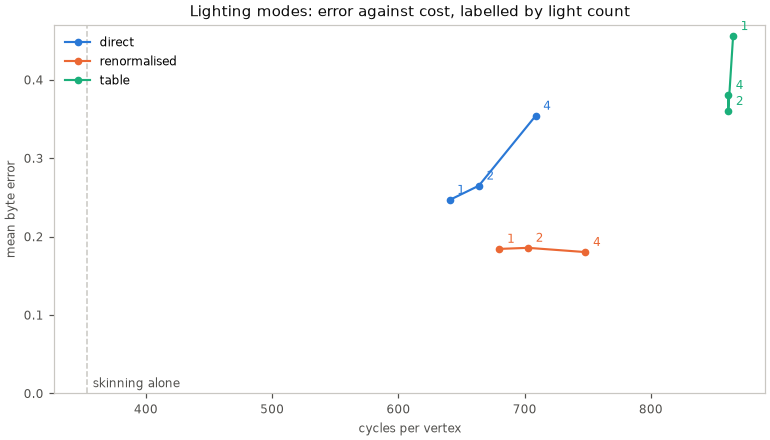
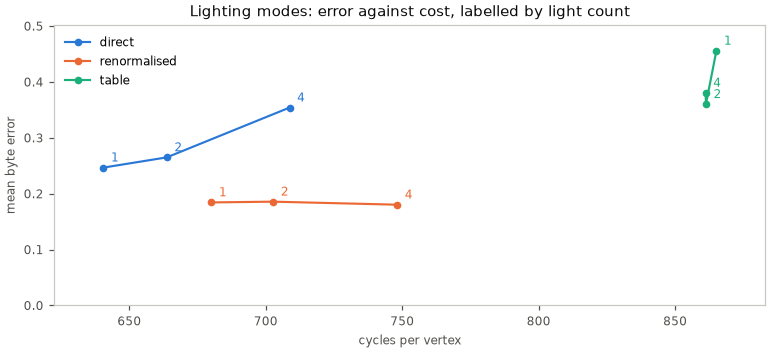
docs: tighten the skin-light board plot to its data, skinning-alone cost in the generated sentence (autana-2agzm)

diff --git a/launcher/tools/r3d/skin_light/report_skin_light_board.py b/launcher/tools/r3d/skin_light/report_skin_light_board.py
@@ -17,6 +17,8 @@ SHARED = (("Normal-palette build cycles / frame", "the normal palette costs {} c
           ("Scene PSRAM bytes", "the scene holds {} bytes of PSRAM"))
 # Point-label offsets in points from the point, tried in order until one clears the labels already placed.
 LABEL_OFFSETS = ((5, 4), (5, -10), (-12, 4), (-12, -10), (5, 12), (5, -18), (-12, 12), (-12, -18))
+PLOT_SIZE = (7.0, 3.2)  # inches
+PLOT_MARGIN = 0.08  # of the cost range, either side
 FIGURE = pathlib.Path(__file__).resolve().parents[4] / "docs/render/images/skin-light-board.png"
 
 
@@ -104,7 +106,7 @@ def mode_points(text):
 def lighting_modes(text):
     """The slim table of the modes, preceded by one sentence for each column that holds a single value in every row;
     a column whose rows differ stays in the table."""
-    points, _, shared, _ = mode_points(text)
+    points, skin, shared, _ = mode_points(text)
     constant = {name: set(values).pop() for name, values in shared.items() if len(set(values)) == 1}
     names = [name for name, _ in SHARED if name in constant]
     columns = ["Mode", "Lights", "Worst byte error", "Table build cycles / light change", "Scene internal bytes"]
@@ -125,8 +127,8 @@ def write_figure(text, output):
     """Mean byte error against cycles per vertex, one colour per mode, the light counts joined and labelled."""
     sys.path.insert(0, str(pathlib.Path(__file__).resolve().parents[2]))
     from docs.plot_style import FAINT, INK, LABEL_SIZE, MUTED, SLOTS, TITLE_SIZE, save, subplots
-    points, skin, _, _ = mode_points(text)
-    plot, axis = subplots(1, 1, (7.0, 4.0))
+    points, _, _, _ = mode_points(text)
+    plot, axis = subplots(1, 1, PLOT_SIZE)
     placed = []
     for colour, mode in zip(SLOTS, MODES):
         own = [p for p in points if p[0] == mode]
@@ -143,10 +145,8 @@ def write_figure(text, output):
                     placed.append(box)
                     break
                 label.remove()
-    if skin is not None:
-        axis.axvline(skin, color=FAINT, linestyle="--", linewidth=1)
-        axis.annotate("skinning alone", (skin, 0), xytext=(4, 4), textcoords="offset points", fontsize=LABEL_SIZE, color=MUTED)
-    axis.set_ylim(bottom=0)
+    axis.set_ylim(0, 1.1 * max(p[3] for p in points))
+    axis.margins(x=PLOT_MARGIN)
     axis.set_title("Lighting modes: error against cost, labelled by light count", fontsize=TITLE_SIZE, color=INK)
     axis.set_xlabel("cycles per vertex", fontsize=LABEL_SIZE, color=MUTED)
     axis.set_ylabel("mean byte error", fontsize=LABEL_SIZE, color=MUTED)

diff --git a/docs/render/Skinned-Lighting.md b/docs/render/Skinned-Lighting.md
@@ -93,8 +93,7 @@ The import's [`[skin].lighting`](Mesh-Import.md#skin-lighting) picks the mode.
 
 ![Mean byte error against cycles per vertex for each lighting mode, the one, two and four light points joined](images/skin-light-board.png)
 
-Skinning alone costs the dashed line's cycles per vertex; an exact float
-evaluation costs about 5,700 ([every kernel](#board-measurement)).
+An exact float evaluation costs about 5,700 cycles per vertex ([every kernel](#board-measurement)).
 
 Errors are 0-255 steps of a light channel against float lighting of the
 packed normals; the plot shows the mean. Board measurements, from the [capture](#board-measurement):
